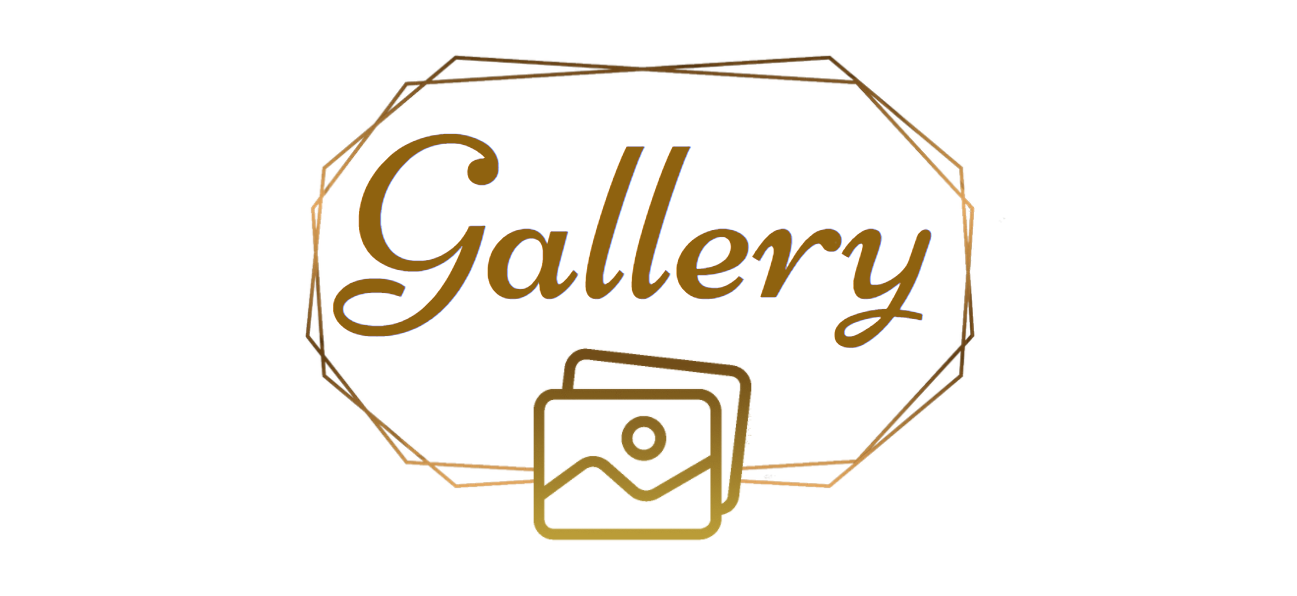
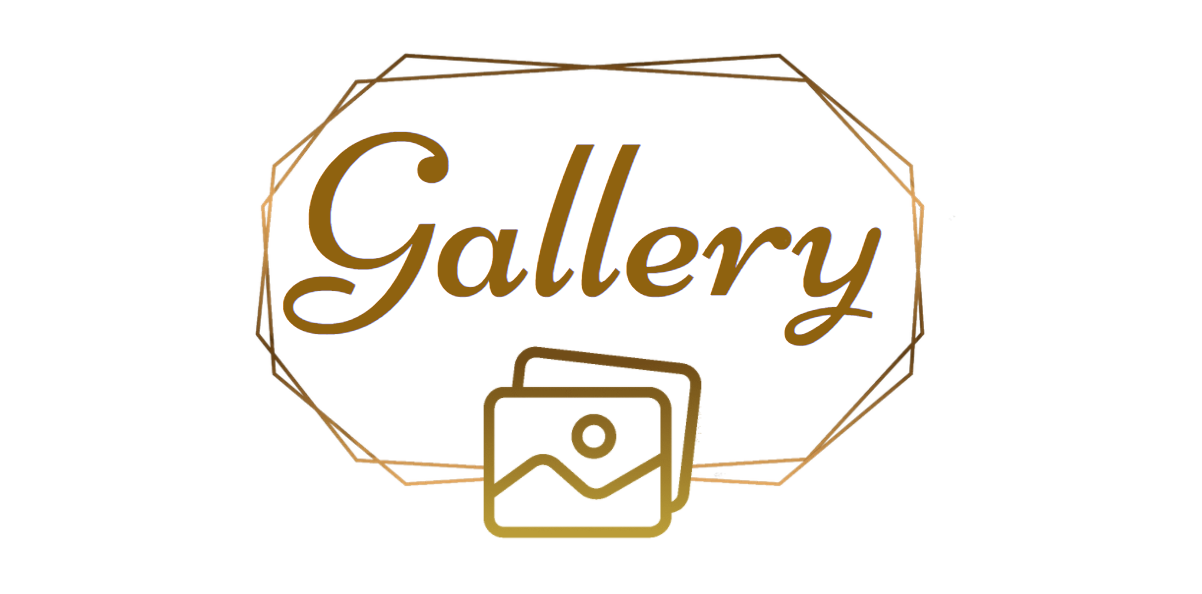
add gallery

Changed region(s): [[0.2155, 0.0909, 0.7696, 0.9091]]

diff --git a/gallery.html b/gallery.html
@@ -48,33 +48,70 @@
     <!--Baking Banner-->
     <div class = "container">
         <div class = "row" style ="align-items:center;">
-            <div class="col-md-3"></div>
-            <div class="col-md-6">
+            <div class="col-md-2"></div>
+            <div class="col-md-8">
                <img src ="images/Baking/Banner/Gallery_Icon.PNG" style = "text-align:center;" class="img-fluid">
             </div>
-            <div class="col-md-3"></div>
+            <div class="col-md-2"></div>
         </div>
+    </div>
+
+    <!--Carousel-->
+    <div class ="container">
+        <div id="carouselExampleIndicators" class="carousel slide" data-ride="carousel">
+            <ol class="carousel-indicators">
+              <li data-target="#carouselExampleIndicators" data-slide-to="0" class="active"></li>
+              <li data-target="#carouselExampleIndicators" data-slide-to="1"></li>
+              <li data-target="#carouselExampleIndicators" data-slide-to="2"></li>
+            </ol>
+            <div class="carousel-inner">
+              <div class="carousel-item active">
+                <img class="d-block w-100" src="images/Baking/Macaron/Gallery/Gallery_01.jpg" alt="First slide">
+                <div class="carousel-caption d-none d-md-block">
+                    <h5>Yellow Bear Macaron</h5>
+                    <p>
+
+                    </p>
+                </div>
+              </div>
+              <div class="carousel-item">
+                <img class="d-block w-100" src="images/Baking/Macaron/Gallery/Gallery_02.png" alt="Second slide">
+                <div class="carousel-caption d-none d-md-block">
+                    <h5>Winter Snow Bear Macaron</h5>
+                </div>
+              </div>
+              <div class="carousel-item">
+                <img class="d-block w-100" src="images/Baking/Macaron/Gallery/Gallery_03.png" alt="Third slide">
+                <div class="carousel-caption d-none d-md-block">
+                    <h5>Piggy Macaron</h5>
+                </div>
+              </div>
+            </div>
+            <a class="carousel-control-prev" href="#carouselExampleIndicators" role="button" data-slide="prev">
+              <span class="carousel-control-prev-icon" aria-hidden="true"></span>
+              <span class="sr-only">Previous</span>
+            </a>
+            <a class="carousel-control-next" href="#carouselExampleIndicators" role="button" data-slide="next">
+              <span class="carousel-control-next-icon" aria-hidden="true"></span>
+              <span class="sr-only">Next</span>
+            </a>
+          </div>
     </div>
     <!--Baking Gallery-->
-    <div class = "container">
-    <div class = "row">
-        <div class = "col-md-8">
-            <img src="images/Baking/Macaron/Gallery_01.jpg" class="img-fluid">
+    <div class = "container-fluid">
+        <div class = "row">
+            <div class = "col-md-6">
+                <img src="images/Baking/Macaron/Gallery/Gallery_01.jpg" class="img-fluid gallery-img">
+            </div>
+            <div class = "col-md-2"></div>
+            <div class = "col-md-4">
+                <img src="images/Baking/Macaron/Gallery_03.jpg" class="img-fluid gallery-img">
+            </div>
         </div>
-        <div class = "col-md-4">
-            <img src="images/Baking/Macaron/Gallery_04.jpg" class="img-fluid">
+        <div class = "row">
+            s
         </div>
     </div>
-    <div class = "row">
-        <div class = "col-md-4">
-            <img src="images/Baking/Macaron/Gallery_05.jpg" class="img-fluid">
-        </div>
-        <div class = "col-md-8">
-            <img src="images/Baking/Macaron/Gallery_02.jpg" class="img-fluid">
-        </div>    
-    </div>
-    </div>  
-
 </body>
 
 <footer class = "baking-footer" style = "background-color: white; padding: 20px;">

diff --git a/recipe.html b/recipe.html
@@ -50,7 +50,7 @@
         <div class = "row" style ="align-items:center;">
             <div class="col-md-3"></div>
             <div class="col-md-6">
-               <img src ="images/Baking/Banner/RecipeIcon.PNG" style = "text-align:center;" class="img-fluid">
+               <img src ="images/Baking/Banner/Recipe_Icon.PNG" style = "text-align:center;" class="img-fluid">
             </div>
             <div class="col-md-3"></div>
         </div>

diff --git a/style.css b/style.css
@@ -83,6 +83,12 @@ body, html {
     background-size: cover;
   }
 
+/*** Baking Gallery ***/
+.gallery-img{
+    min-height: 500px;
+    max-height:500px;
+}
+
 /*** Footer ***/
 .footer-bar{
     background-color: powderblue;
